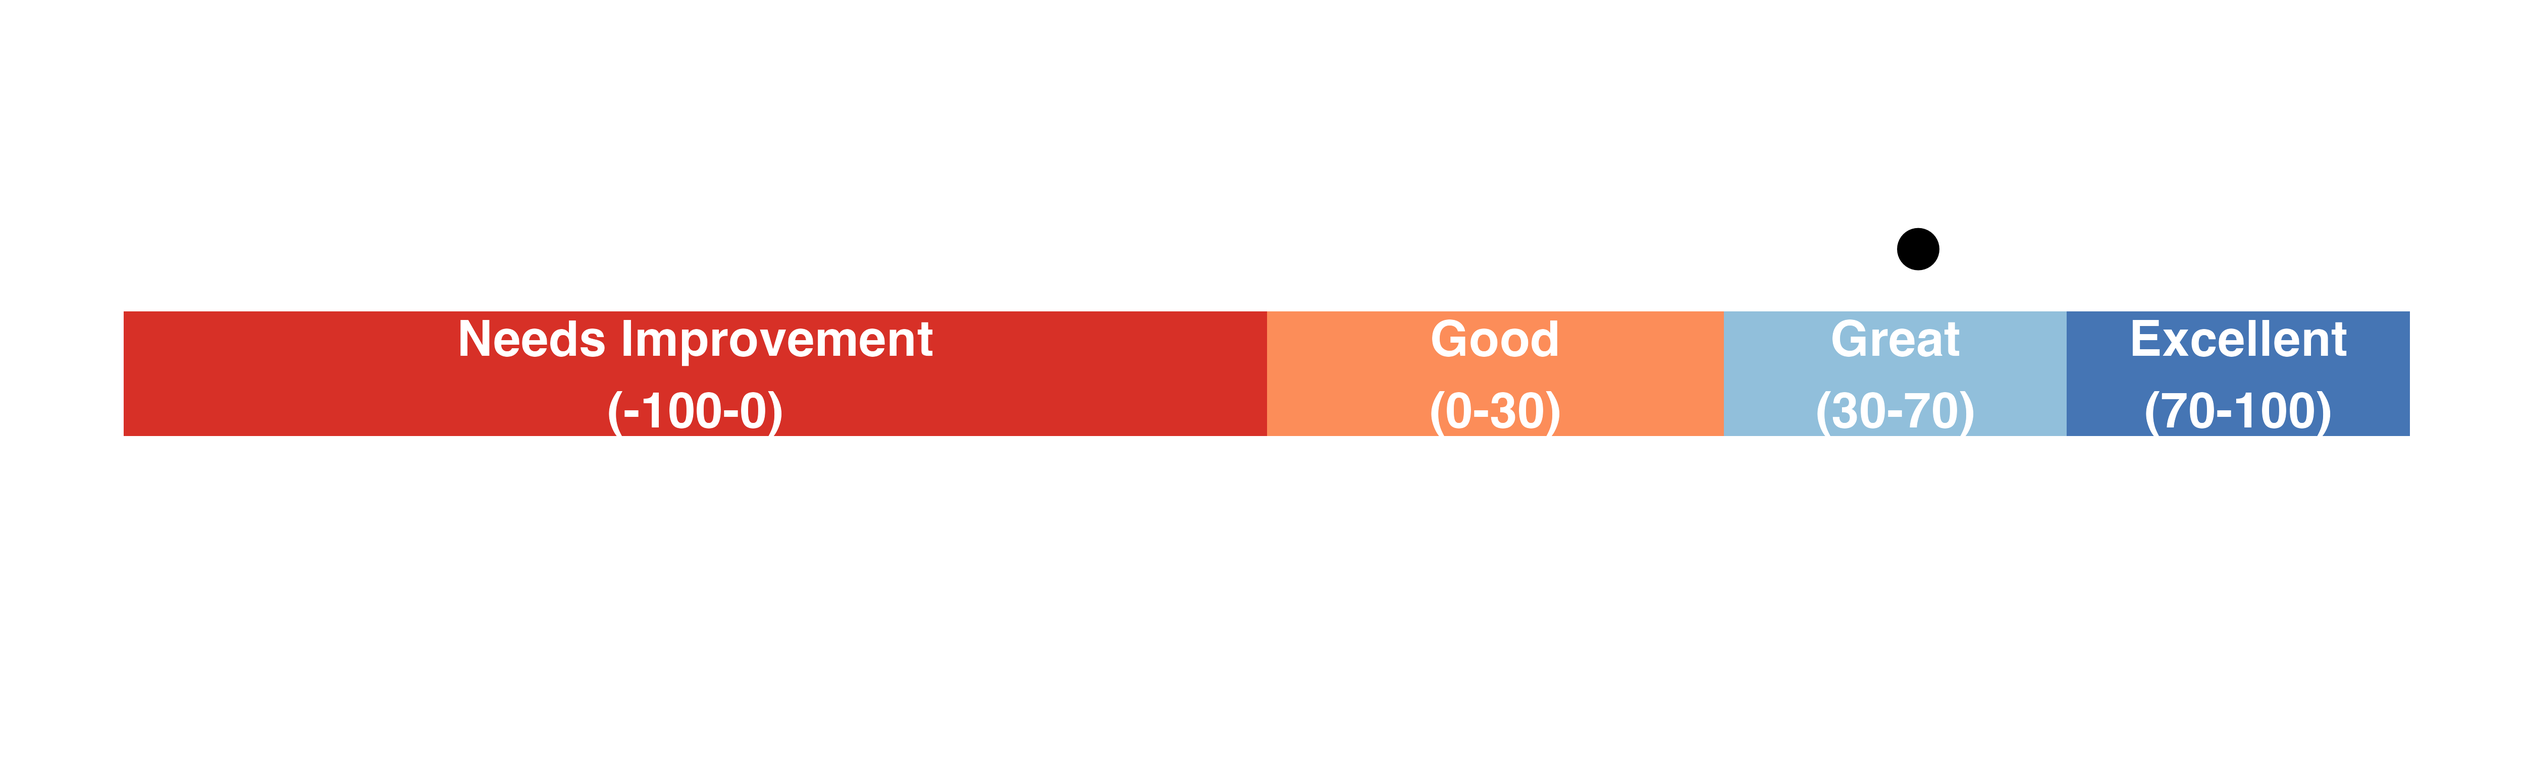
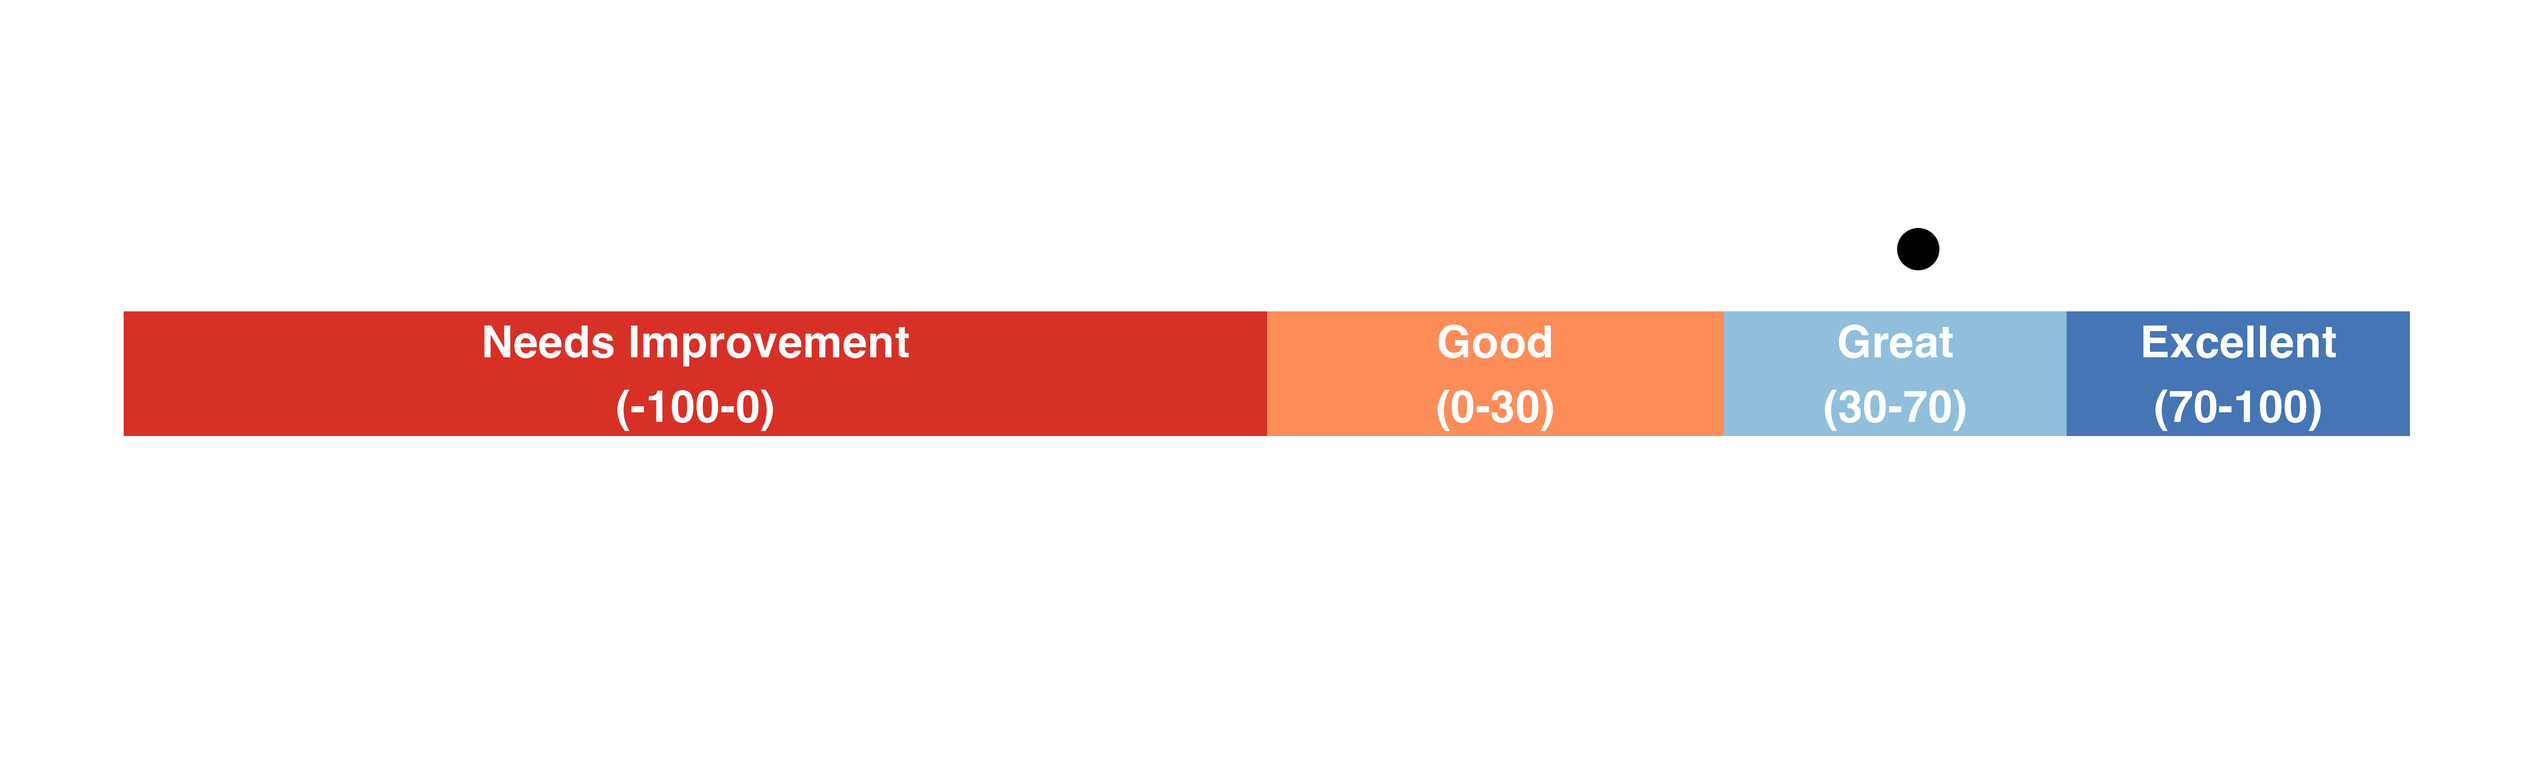
io

diff --git a/docs/reports/Regional_Partner_annual_survey_report_2425/Regional_Partner_Annual_Report_2425.html b/docs/reports/Regional_Partner_annual_survey_report_2425/Regional_Partner_Annual_Report_2425.html
@@ -105,8 +105,8 @@ ul.task-list li input[type="checkbox"] {
 <p>Below is a table showing each partner, their NPS score, and their fill in the blank answers to questions regarding why they chose their score and what sort of improvements they would like:</p>
 <div class="cell">
 <div class="cell-output-display">
-<div class="reactable html-widget html-fill-item" id="htmlwidget-8e5e52087ccb9353f8ce" style="width:auto;height:auto;"></div>
-<script type="application/json" data-for="htmlwidget-8e5e52087ccb9353f8ce">{"x":{"tag":{"name":"Reactable","attribs":{"data":{"Partner":["Heartland Education Consortium","Children's Literacy Initiative","Literacy Alliance of Northeast Florida","Children's Literacy Initiative","Northeast Florida Educational Consortium","Hands Together for Haitians, Inc","Uplift Literacy","Children's Home Society of Florida","Florida State Alliance of YMCAs","Consortium of Florida Education Foundations","Principle Life Family Resource Center, Inc","United Way Suncoast","Children's Home Society of Florida"],"Q5":[8,8,9,7,10,10,10,8,7,8,10,9,10],"Q6":["Overall, a great experience, as partner that is on the smaller side servicing specific districts, at times there is a lot of extra work created that doesn't necessarily support the work being done specifically by us.","Overall the team is very organized and communicates well, which makes partnering smooth. However, delays with post-event invoices can impact our planning, and it's sometimes been challenging to get 25 parents to attend Area 1 events.","LANE is still learning in our first year. We get excellent support from our UF partners. Each event brings new experience, ideas, and learning from a partner perspective. Love meeting the families and providing them powerful info and the ability to sign up for the New Worlds Reading program.","Working as a Regional Partner to the New Worlds Reading initiative has afforded me the opportunity to engage in deeply meaningful work, positively impacting the lives of over 2,500 individuals during this academic year. The program’s structure has proven to be remarkably adaptable, particularly as I transitioned from a different professional environment and working style. Although the program has encountered certain challenges throughout the year, they have been both navigable and effectively managed by the University of Florida’s dedicated leadership team and our internal team. I recognize that there remains continuous potential for growth and improvement within various facets of the project, feedback that has been acknowledged and thoughtfully considered during this year’s retrospective review. Importantly, the program is accessible to multilingual families, a feature that is essential as Florida increasingly becomes home to a diverse and international population.","The New World Reading Initiative has been extremely supportive in every step of the onboarding, planning, and delivery of our events.","Everyone we come in contact with on UF's end was wonderful and helped us to provide the best services to our clients. We appreciate all of your efforts.","One of the things I’ve appreciated most is the open-door policy.  Shanita and Michelle are approachable and always more than willing to answer questions or provide clarity when needed. \n\nThe shared drive has also been incredibly helpful. Having easy access to relevant materials and resources allows us to stay informed and aligned in our work.\n\nMost importantly, I value the growth mindset that runs through everything we do. There’s a clear, ongoing effort to ask, “What else can we learn?” -which keeps us moving forward as regional partners. The focus on continuous professional development ensures that we’re always improving for the communities we serve.","Much improved from Year 1.","We love the resources and support that is provided from the New Worlds Reading team. We love the mission of New Worlds Reading Initiative and how it can support families and caregivers. We are still adapting to the changing needs of the families across the State and how to effectively serve them and get them signed up for the Initiative.","The New Worlds Reading Initiative (NWRI) represents a meaningful and strategic partnership opportunity for the Consortium of Florida Education Foundations. With our background in grant management and the strength of our statewide network of Local Education Foundations (LEFs)—each deeply engaged in their communities and school districts—the NWRI has become a powerful vehicle for advancing children’s literacy and equipping parents with valuable resources. We appreciate this opportunity.\nThrough this partnership, our LEFs have been able to deepen relationships with nearby elementary schools and strengthen ties within the broader community. Families are consistently grateful to learn about the free book program and appreciate the personalized support in navigating the application process.\nProviding free meals at literacy events adds another layer of value, removing barriers to participation and creating a welcoming, family-friendly atmosphere. Most importantly, we are proud to help build home libraries across Florida—ensuring that children not only gain access to books but also grow up surrounded by them.\n","The rating is based on the professionalism, resourcefulness, flexibility, communication, and accountability. The teamwork has been nothing short of phenomenal.","I appreciate that the team is responsive and open to being flexible (when they can).","x"],"Q7":["To better help families, it would be great if our individual QR code opened straight to the application rather than having to navigate on many different devices to find the apply button. Also, if the end of presentation survey could be a specific code for our organization rather than a drop down menu.","To better serve us and the families in our region, it would be helpful to collaborate on strategies to better reach and engage high-need areas. It’s sometimes challenging to get 25 parents to attend in those communities, so targeted outreach or support in those zones could really boost impact.","Continue to learn from the other partners and UF team. Accurate data to see the results of our efforts.","I am pleased to learn that individualized QR codes will be incorporated into the presentations for the Area 1 and Area 2 workshops, as this will undoubtedly enhance both efficiency and enrollment engagement. Additionally, I would encourage consideration of revising the consent language on the sign-in sheets to make it more accessible and easily understood by families that we serve. This has been a recurring concern, particularly in light of recent shifts in political leadership, which have caused some individuals to feel apprehensive about providing signatures. Furthermore, I believe the Area 1 workshops would benefit from increased interactivity. At times, the content can feel somewhat repetitive. Families have consistently expressed appreciation for the opportunities to engage during facilitation, and incorporating more interactive elements would further enrich their experience.","Nothing. WE appreciate the support.","NA","One suggestion would be to strengthen the accuracy of reported data, particularly around metrics like applications submitted and webpage visits. Ensuring that this data is reliable will help us better understand engagement levels by month and make more informed decisions to support families effectively.","Electronic sign in sheets, data from survey results, higher reliability of application data,","Provide more data, More support in connecting with districts and schools, More opportunities for sharing best practices, Clear guidance on goalposts to hit","To better serve families, we believe the enrollment process could be streamlined. Currently, families with multiple children find it cumbersome to complete the process. A simple prompt asking if they wish to enroll another student, with the option to carry over duplicate information (such as parent contact details), would improve efficiency. On mobile devices, the date-of-birth selector requires excessive scrolling to find the correct year. A \"type-in-the-blank\" feature on mobile devices (like the PC application) would significantly improve usability.","An idea that we thought about was since the program already has an alliance with FDOE, would it possible for them to include the New World Reading program as a resource for the low reading level students. This information would go out to all of the schools throughout the state along with the names and contact of the regional partners in order to facilitate the process and intentionally target the necessary students and families.","The rules for promoting the program outside of events are narrow and I think we could reach more families if there was more grace around promoting in other areas (tabling, meetings, etc).","x"]},"columns":[{"id":"Partner","name":"Partner","type":"character"},{"id":"Q5","name":"NPS\nScore","type":"numeric","maxWidth":70},{"id":"Q6","name":"We would love to hear more about why you rated your experience with us the way you did. What specific aspects influenced your rating?","type":"character","sortable":false,"filterable":true,"filterMethod":"function(rows, columnId, filterValue) {\n     try {\n       const pattern = filterValue.trim().toLowerCase().split(' ');\n       return rows.filter(row => {\n         const value = String(row.values[columnId] || '').toLowerCase();\n         return pattern.every(term => value.includes(term));\n       });\n     } catch (e) {\n       return rows;\n     }\n   }","cell":"function(cellInfo) {\n    try {\n      let filterValue = cellInfo.filterValue\n      let pattern = filterValue.split(' ').filter(n => n).sort().join('|')\n      let regexPattern = new RegExp('(' + pattern + ')', 'gi')\n      let replacement = '<span style=\"color:black;font-weight:bold;\">$1<\/span>'\n      return cellInfo.value.replace(regexPattern, replacement)\n    } catch(e) {\n        return cellInfo.value\n    }\n  }","html":true},{"id":"Q7","name":"What can we do to better serve you and/or families in your region?","type":"character","sortable":false,"filterable":true,"filterMethod":"function(rows, columnId, filterValue) {\n     try {\n       const pattern = filterValue.trim().toLowerCase().split(' ');\n       return rows.filter(row => {\n         const value = String(row.values[columnId] || '').toLowerCase();\n         return pattern.every(term => value.includes(term));\n       });\n     } catch (e) {\n       return rows;\n     }\n   }","cell":"function(cellInfo) {\n    try {\n      let filterValue = cellInfo.filterValue\n      let pattern = filterValue.split(' ').filter(n => n).sort().join('|')\n      let regexPattern = new RegExp('(' + pattern + ')', 'gi')\n      let replacement = '<span style=\"color:black;font-weight:bold;\">$1<\/span>'\n      return cellInfo.value.replace(regexPattern, replacement)\n    } catch(e) {\n        return cellInfo.value\n    }\n  }","html":true}],"filterable":true,"searchable":true,"dataKey":"3d35a4e22843723a24244803ddbc8ac8"},"children":[]},"class":"reactR_markup"},"evals":["tag.attribs.columns.2.filterMethod","tag.attribs.columns.2.cell","tag.attribs.columns.3.filterMethod","tag.attribs.columns.3.cell"],"jsHooks":[]}</script>
+<div class="reactable html-widget html-fill-item" id="htmlwidget-e1e3d4952103f1cef68a" style="width:auto;height:auto;"></div>
+<script type="application/json" data-for="htmlwidget-e1e3d4952103f1cef68a">{"x":{"tag":{"name":"Reactable","attribs":{"data":{"Partner":["Heartland Education Consortium","Children's Literacy Initiative","Literacy Alliance of Northeast Florida","Children's Literacy Initiative","Northeast Florida Educational Consortium","Hands Together for Haitians, Inc","Uplift Literacy","Children's Home Society of Florida","Florida State Alliance of YMCAs","Consortium of Florida Education Foundations","Principle Life Family Resource Center, Inc","United Way Suncoast","Children's Home Society of Florida"],"Q5":[8,8,9,7,10,10,10,8,7,8,10,9,10],"Q6":["Overall, a great experience, as partner that is on the smaller side servicing specific districts, at times there is a lot of extra work created that doesn't necessarily support the work being done specifically by us.","Overall the team is very organized and communicates well, which makes partnering smooth. However, delays with post-event invoices can impact our planning, and it's sometimes been challenging to get 25 parents to attend Area 1 events.","LANE is still learning in our first year. We get excellent support from our UF partners. Each event brings new experience, ideas, and learning from a partner perspective. Love meeting the families and providing them powerful info and the ability to sign up for the New Worlds Reading program.","Working as a Regional Partner to the New Worlds Reading initiative has afforded me the opportunity to engage in deeply meaningful work, positively impacting the lives of over 2,500 individuals during this academic year. The program’s structure has proven to be remarkably adaptable, particularly as I transitioned from a different professional environment and working style. Although the program has encountered certain challenges throughout the year, they have been both navigable and effectively managed by the University of Florida’s dedicated leadership team and our internal team. I recognize that there remains continuous potential for growth and improvement within various facets of the project, feedback that has been acknowledged and thoughtfully considered during this year’s retrospective review. Importantly, the program is accessible to multilingual families, a feature that is essential as Florida increasingly becomes home to a diverse and international population.","The New World Reading Initiative has been extremely supportive in every step of the onboarding, planning, and delivery of our events.","Everyone we come in contact with on UF's end was wonderful and helped us to provide the best services to our clients. We appreciate all of your efforts.","One of the things I’ve appreciated most is the open-door policy.  Shanita and Michelle are approachable and always more than willing to answer questions or provide clarity when needed. \n\nThe shared drive has also been incredibly helpful. Having easy access to relevant materials and resources allows us to stay informed and aligned in our work.\n\nMost importantly, I value the growth mindset that runs through everything we do. There’s a clear, ongoing effort to ask, “What else can we learn?” -which keeps us moving forward as regional partners. The focus on continuous professional development ensures that we’re always improving for the communities we serve.","Much improved from Year 1.","We love the resources and support that is provided from the New Worlds Reading team. We love the mission of New Worlds Reading Initiative and how it can support families and caregivers. We are still adapting to the changing needs of the families across the State and how to effectively serve them and get them signed up for the Initiative.","The New Worlds Reading Initiative (NWRI) represents a meaningful and strategic partnership opportunity for the Consortium of Florida Education Foundations. With our background in grant management and the strength of our statewide network of Local Education Foundations (LEFs)—each deeply engaged in their communities and school districts—the NWRI has become a powerful vehicle for advancing children’s literacy and equipping parents with valuable resources. We appreciate this opportunity.\nThrough this partnership, our LEFs have been able to deepen relationships with nearby elementary schools and strengthen ties within the broader community. Families are consistently grateful to learn about the free book program and appreciate the personalized support in navigating the application process.\nProviding free meals at literacy events adds another layer of value, removing barriers to participation and creating a welcoming, family-friendly atmosphere. Most importantly, we are proud to help build home libraries across Florida—ensuring that children not only gain access to books but also grow up surrounded by them.\n","The rating is based on the professionalism, resourcefulness, flexibility, communication, and accountability. The teamwork has been nothing short of phenomenal.","I appreciate that the team is responsive and open to being flexible (when they can).","x"],"Q7":["To better help families, it would be great if our individual QR code opened straight to the application rather than having to navigate on many different devices to find the apply button. Also, if the end of presentation survey could be a specific code for our organization rather than a drop down menu.","To better serve us and the families in our region, it would be helpful to collaborate on strategies to better reach and engage high-need areas. It’s sometimes challenging to get 25 parents to attend in those communities, so targeted outreach or support in those zones could really boost impact.","Continue to learn from the other partners and UF team. Accurate data to see the results of our efforts.","I am pleased to learn that individualized QR codes will be incorporated into the presentations for the Area 1 and Area 2 workshops, as this will undoubtedly enhance both efficiency and enrollment engagement. Additionally, I would encourage consideration of revising the consent language on the sign-in sheets to make it more accessible and easily understood by families that we serve. This has been a recurring concern, particularly in light of recent shifts in political leadership, which have caused some individuals to feel apprehensive about providing signatures. Furthermore, I believe the Area 1 workshops would benefit from increased interactivity. At times, the content can feel somewhat repetitive. Families have consistently expressed appreciation for the opportunities to engage during facilitation, and incorporating more interactive elements would further enrich their experience.","Nothing. WE appreciate the support.","NA","One suggestion would be to strengthen the accuracy of reported data, particularly around metrics like applications submitted and webpage visits. Ensuring that this data is reliable will help us better understand engagement levels by month and make more informed decisions to support families effectively.","Electronic sign in sheets, data from survey results, higher reliability of application data,","Provide more data, More support in connecting with districts and schools, More opportunities for sharing best practices, Clear guidance on goalposts to hit","To better serve families, we believe the enrollment process could be streamlined. Currently, families with multiple children find it cumbersome to complete the process. A simple prompt asking if they wish to enroll another student, with the option to carry over duplicate information (such as parent contact details), would improve efficiency. On mobile devices, the date-of-birth selector requires excessive scrolling to find the correct year. A \"type-in-the-blank\" feature on mobile devices (like the PC application) would significantly improve usability.","An idea that we thought about was since the program already has an alliance with FDOE, would it possible for them to include the New World Reading program as a resource for the low reading level students. This information would go out to all of the schools throughout the state along with the names and contact of the regional partners in order to facilitate the process and intentionally target the necessary students and families.","The rules for promoting the program outside of events are narrow and I think we could reach more families if there was more grace around promoting in other areas (tabling, meetings, etc).","x"]},"columns":[{"id":"Partner","name":"Partner","type":"character"},{"id":"Q5","name":"NPS\nScore","type":"numeric","maxWidth":70},{"id":"Q6","name":"We would love to hear more about why you rated your experience with us the way you did. What specific aspects influenced your rating?","type":"character","sortable":false,"filterable":true,"filterMethod":"function(rows, columnId, filterValue) {\n     try {\n       const pattern = filterValue.trim().toLowerCase().split(' ');\n       return rows.filter(row => {\n         const value = String(row.values[columnId] || '').toLowerCase();\n         return pattern.every(term => value.includes(term));\n       });\n     } catch (e) {\n       return rows;\n     }\n   }","cell":"function(cellInfo) {\n    try {\n      let filterValue = cellInfo.filterValue\n      let pattern = filterValue.split(' ').filter(n => n).sort().join('|')\n      let regexPattern = new RegExp('(' + pattern + ')', 'gi')\n      let replacement = '<span style=\"color:black;font-weight:bold;\">$1<\/span>'\n      return cellInfo.value.replace(regexPattern, replacement)\n    } catch(e) {\n        return cellInfo.value\n    }\n  }","html":true},{"id":"Q7","name":"What can we do to better serve you and/or families in your region?","type":"character","sortable":false,"filterable":true,"filterMethod":"function(rows, columnId, filterValue) {\n     try {\n       const pattern = filterValue.trim().toLowerCase().split(' ');\n       return rows.filter(row => {\n         const value = String(row.values[columnId] || '').toLowerCase();\n         return pattern.every(term => value.includes(term));\n       });\n     } catch (e) {\n       return rows;\n     }\n   }","cell":"function(cellInfo) {\n    try {\n      let filterValue = cellInfo.filterValue\n      let pattern = filterValue.split(' ').filter(n => n).sort().join('|')\n      let regexPattern = new RegExp('(' + pattern + ')', 'gi')\n      let replacement = '<span style=\"color:black;font-weight:bold;\">$1<\/span>'\n      return cellInfo.value.replace(regexPattern, replacement)\n    } catch(e) {\n        return cellInfo.value\n    }\n  }","html":true}],"filterable":true,"searchable":true,"dataKey":"3d35a4e22843723a24244803ddbc8ac8"},"children":[]},"class":"reactR_markup"},"evals":["tag.attribs.columns.2.filterMethod","tag.attribs.columns.2.cell","tag.attribs.columns.3.filterMethod","tag.attribs.columns.3.cell"],"jsHooks":[]}</script>
 </div>
 </div>
 </section>
